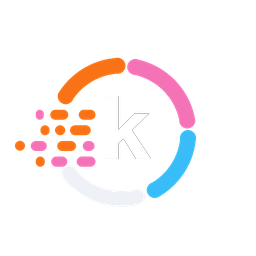
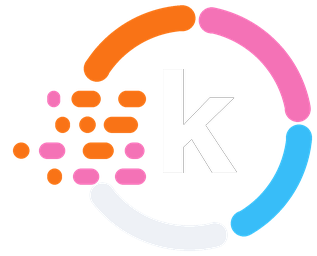
fix: 헤더 마크를 키우고 브라우저 자동 다크를 막는다
마크를 아이콘과 같은 정사각으로 뽑은 탓에 헤더에서 로고가 작아 보였다.
잔상이 왼쪽으로만 뻗어 오른쪽에 빈 자리가 남고, 링이 캔버스의 58%까지 줄었다.
교체 전 마크는 89%였으니 같은 자리에서 3분의 2 크기였다. 마크에는 아이콘 같은
마스크가 없으므로 그 빈 자리를 없애 317x256으로 뽑는다. 링이 높이의 96%다.

호출부는 w-8 같은 정사각 지정을 w-auto로 바꾼다. 가로가 긴 그림이라 정사각에
묶으면 눌린다.

어두운 배경에서 k가 묻히던 건 안드로이드 크롬과 삼성 인터넷의 자동 다크
테마였다. 배경과 글자는 브라우저가 뒤집지만 PNG는 손대지 않아 남색 k만 남는다.
앱에는 다크 팔레트가 없으므로 color-scheme: light로 그 변환을 끈다. meta가
첫 페인트를, CSS 선언이 그 뒤를 맡는다.

랜딩은 자동 다크와 무관하게 히어로와 푸터가 원래 어두운 면이다. 거기에는
k만 흰색인 마크를 쓴다. 헤더는 스크롤하면 배경이 밝아지므로 글자색과 같은
기준으로 함께 바꾼다.

diff --git a/frontend/src/pages/LandingPage.tsx b/frontend/src/pages/LandingPage.tsx
@@ -119,7 +119,8 @@ export function LandingPage() {
       >
         <div className="mx-auto flex max-w-6xl items-center justify-between px-6 py-4">
           <span className="flex items-center gap-2">
-            <AppMark className="h-8 w-8" />
+            {/* 스크롤 전에는 어두운 히어로 위에 얹힌다 — 글자색과 같은 기준으로 마크도 바꾼다 */}
+            <AppMark className="h-8 w-auto" onDark={!scrolled} />
             <span
               className={`text-lg font-extrabold tracking-tight transition-colors ${
                 scrolled ? 'text-ink' : 'text-on-brand'
@@ -365,7 +366,7 @@ export function LandingPage() {
         <div className="mx-auto flex max-w-6xl flex-col gap-6 px-6 py-14 sm:flex-row sm:items-end sm:justify-between">
           <div className="flex flex-col gap-2">
             <span className="flex items-center gap-2">
-              <AppMark className="h-9 w-9" />
+              <AppMark className="h-9 w-auto" onDark />
               <span className="text-xl font-extrabold tracking-tight text-on-brand">칼로그</span>
             </span>
             <span className="text-canvas/60">

diff --git a/frontend/src/ui/AppMark.tsx b/frontend/src/ui/AppMark.tsx
@@ -8,7 +8,27 @@
  *
  * 장식이므로 대체 텍스트를 비운다 — 옆에 "칼로그"가 글자로 함께 있는 자리에 쓴다.
  * 마크만 홀로 놓는 자리에서는 호출측이 `alt`를 준다.
+ *
+ * `onDark` — 어두운 면(랜딩 히어로, 푸터) 위에서는 k만 흰색인 그림을 쓴다.
+ * 기본 마크의 k는 slate-800이라 그런 면에서는 링만 뜨고 가운데가 비어 보인다.
+ *
+ * 가로가 세로보다 길다(317×256). 왼쪽 잔상 때문이다. 호출측은 높이만 정하고
+ * 폭은 `w-auto`로 둔다 — 정사각으로 묶으면 그림이 눌린다.
  */
-export function AppMark({ className = '', alt = '' }: { className?: string; alt?: string }) {
-  return <img src="/kcalog-mark-v2.png" alt={alt} className={className} />
+export function AppMark({
+  className = '',
+  alt = '',
+  onDark = false,
+}: {
+  className?: string
+  alt?: string
+  onDark?: boolean
+}) {
+  return (
+    <img
+      src={onDark ? '/kcalog-mark-on-dark-v2.png' : '/kcalog-mark-v2.png'}
+      alt={alt}
+      className={className}
+    />
+  )
 }

diff --git a/frontend/index.html b/frontend/index.html
@@ -24,6 +24,12 @@
     />
     <!-- 페이지 배경(--color-canvas)과 같은 값 — 어긋나면 PWA 상태 표시줄에 다른 색 띠가 생긴다 -->
     <meta name="theme-color" content="#f8fafc" />
+    <!--
+      밝은 화면 전용임을 알린다. 이 선언이 없으면 안드로이드 크롬과 삼성 인터넷의 자동 다크 테마가
+      배경과 글자를 제멋대로 뒤집는다. 그때 PNG 마크는 뒤집히지 않아 남색 `k`만 어두운 배경에 묻힌다.
+      앱에는 다크 팔레트가 없으므로(index.css에 prefers-color-scheme 분기 없음) 여기서 잠근다.
+    -->
+    <meta name="color-scheme" content="light" />
     <meta name="description" content="사진 한 장으로 10초 안에 식사가 기록되는 AI 식단·체중 관리 앱" />
     <title>칼로그 — 사진 한 장으로 10초 만에 식사 기록</title>
     <!-- 링크 미리보기(카카오톡·검색) — 절대 URL이어야 한다. 상대 경로는 크롤러가 받아가지 못한다 -->

diff --git a/frontend/src/shell/AppShell.tsx b/frontend/src/shell/AppShell.tsx
@@ -56,7 +56,7 @@ export function AppShell() {
       {!isRecords && (
         <header className="sticky top-0 z-10 flex items-center justify-between border-b border-border bg-surface px-4 py-3 shadow-sm">
           <div className="flex items-center gap-2">
-            <AppMark className="h-8 w-8" />
+            <AppMark className="h-8 w-auto" />
             {/* 서비스명 한 줄만 — 부제는 모든 화면 맨 위를 상시로 차지해 본문을 밀어냈다(app-shell 스펙) */}
             <p className="text-base font-extrabold leading-none tracking-tight">칼로그</p>
           </div>

diff --git a/frontend/src/features/onboarding/WizardShell.tsx b/frontend/src/features/onboarding/WizardShell.tsx
@@ -42,7 +42,7 @@ export function WizardShell({
         ) : (
           // 첫 단계에는 뒤로 갈 곳이 없다 — 빈 자리로 두는 대신 마크를 세운다.
           // 가입 직후 처음 만나는 화면이라, 어느 앱의 질문인지 여기서 한 번 더 말해준다
-          <AppMark className="h-9 w-9" alt="칼로그" />
+          <AppMark className="h-9 w-auto" alt="칼로그" />
         )}
         <span className="text-sm text-muted">
           {step} / {total}

diff --git a/frontend/src/pages/LoginPage.tsx b/frontend/src/pages/LoginPage.tsx
@@ -21,7 +21,7 @@ export function LoginPage() {
 
   return (
     <main className="mx-auto flex min-h-dvh max-w-md flex-col items-center justify-center px-6 text-center">
-      <AppMark className="h-16 w-16" />
+      <AppMark className="h-16 w-auto" />
       <h1 className="mt-4 text-3xl font-bold text-brand-ink">칼로그</h1>
       <p className="mt-2 text-muted">사진 한 장으로 10초 안에 기록하는 체중 관리</p>
       {error && (

diff --git a/frontend/tools/og/og.html b/frontend/tools/og/og.html
@@ -65,7 +65,8 @@
 
       .copy { flex: 1; }
       .brandline { display: flex; align-items: center; gap: 14px; margin-bottom: 40px; }
-      .brandline img { width: 60px; height: 60px; }
+      /* 마크는 잔상 때문에 가로가 긴 그림이다 — 정사각으로 묶으면 찌그러진다 */
+      .brandline img { height: 60px; width: auto; }
       .brandline span { font-size: 38px; font-weight: 800; letter-spacing: -.02em; }
 
       h1 {

diff --git a/frontend/src/ui/LoadingScreen.tsx b/frontend/src/ui/LoadingScreen.tsx
@@ -16,7 +16,7 @@ export function LoadingScreen({ message }: { message: string }) {
           aria-hidden
           className="absolute inset-0 animate-spin rounded-full border-4 border-border border-t-brand"
         />
-        <AppMark className="h-10 w-10" />
+        <AppMark className="h-10 w-auto" />
       </div>
       <p role="status" className="text-sm font-medium text-muted">
         {message}

diff --git a/frontend/src/index.css b/frontend/src/index.css
@@ -202,6 +202,9 @@ html {
 
 body {
   margin: 0;
+  /* index.html의 color-scheme meta와 짝 — 브라우저 자동 다크 테마가 이 팔레트를 뒤집지 않게 한다.
+     meta는 첫 페인트를, 여기 선언은 그 뒤를 맡는다 */
+  color-scheme: light;
   background-color: var(--color-canvas);
   color: var(--color-ink);
   font-family: var(--font-sans);
